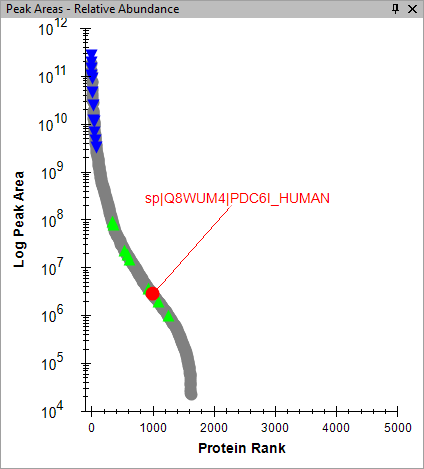
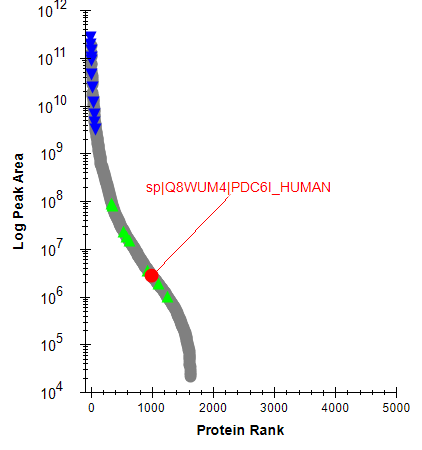
Improved tutorial text, added graph-only screenshot methods
Fixed typos, grammar, and style guide violations in tutorial HTML.
Added PauseForRelativeAbundanceGraphScreenShot() and
PauseForVolcanoPlotGraphScreenShot() helper methods.
Updated screenshots to use cleaner graph-only captures.

diff --git a/pwiz_tools/Skyline/Documentation/Tutorials/PeakImputationDia/en/index.html b/pwiz_tools/Skyline/Documentation/Tutorials/PeakImputationDia/en/index.html
@@ -34,9 +34,9 @@
         In the center, six chromatogram graphs are displayed.
         In the upper right corner is the Peak Area Relative Abundance graph and in the lower right corner is the Retention Times Replicate Comparison graph.</p>
     <ul>
-        <li>Right-click on the <b>Peak Area - Relative Abundance</b> graph, click <b>Targets</b> and then click <b>Proteins</b></li>
-        <li>Right-click on the <b>Peak Area - Relative Abundance</b> graph, click <b>Replicates</b> and then click <b>Single</b></li>
-        <li>On the <b>View</b> menu choose <b>Transitions</b> and click <b>Products</b></li>
+        <li>Right-click on the <b>Peak Area - Relative Abundance</b> graph, choose <b>Targets</b>, and click <b>Proteins</b>.</li>
+        <li>Right-click on the <b>Peak Area - Relative Abundance</b> graph, choose <b>Replicates</b>, and click <b>Single</b>.</li>
+        <li>On the <b>View</b> menu, choose <b>Transitions</b>, and click <b>Products</b>.</li>
     </ul>
     <p><img src="s-01.png" alt="Skyline main window"/></p>
     <h1>Peak Areas Relative Abundance graph</h1>
@@ -46,11 +46,11 @@
         and you can see that the highlighted plasma proteins are higher abundance than the EV proteins.
     </p>
     <ul>
-        <li>In the <b>Targets</b> view <b>Replicates</b> dropdown list, select the first item which is the “EV13_SAXN_12mz_10” replicate.</li>
+        <li>In the <b>Replicates</b> dropdown list, select the first item which is the "EV13_SAXN_12mz_10" replicate.</li>
     </ul>
     <p><img src="s-02.png" alt="Peak abundance - EV enriched"/></p>
-    <p>The replicates whose names begin with "EV" measured samples which used the MagNet protocol to enrich for EV proteins. In these samples, the abundance of the EV proteins is increased in these samples.</p>
-    <ul><li>In the <b>Targets</b> view <b>Replicates</b> dropdown list, select the fourth item which is the “Total04_HydN_12mz_42” replicate.</li></ul>
+    <p>The replicates whose names begin with "EV" measured samples which used the MagNet protocol to enrich for EV proteins. The abundance of the EV proteins is increased in these samples.</p>
+    <ul><li>In the <b>Replicates</b> dropdown list, select the fourth item which is the "Total04_HydN_12mz_42" replicate.</li></ul>
     <p><img src="s-03.png" alt="Peak abundance - Total plasma"/></p>
     <p>The abundances of the proteins in this total plasma sample are different from the EV enriched sample.
         Whereas the EV enriched sample had measurements for more than 4000 proteins, the total plasma sample has values for fewer than 2000 proteins.
@@ -67,27 +67,27 @@
         included a report template which has more group comparison columns.
     </p>
     <ul>
-        <li>In the <b>Reports</b> dropdown at the top of the EV-Enrich:Grid window choose <b>log2fold change</b>.</li>
+        <li>In the <b>Reports</b> dropdown at the top of the <b>EV-Enrich:Grid</b> window, choose <b>log2fold change</b>.</li>
     </ul>
     <p><img src="s-05.png" alt="Group comparison with additional columns"/></p>
     <p>A more graphical way to see the group comparison results is in the volcano plot. To display the volcano plot, do the following:</p>
     <ul>
-        <li>Click the <b>Volcano Plot</b> button at the top left of the <b>EV-Enrich:Grid</b> window</li>
-        <li>The volcano plot appears in the right half of the space where the EV-Enrich grid was. You can make the window wider so that you can see all of the columns of the group comparison grid as well as the volcano plot</li>
+        <li>Click the <b>Volcano Plot</b> button at the top left of the <b>EV-Enrich:Grid</b> window.</li>
     </ul>
+    <p>The volcano plot appears in the right half of the space where the EV-Enrich grid was. You can make the window wider so that you can see all of the columns of the group comparison grid as well as the volcano plot.</p>
     <p><img src="s-06.png" alt="Group comparison with volcano plot"/></p>
     <p>
-        The missing proteins peaks are in replicates where the DIA-NN peptide search engine was unable to confidentally identify a peak.
+        The missing proteins peaks are in replicates where the DIA-NN peptide search engine was unable to confidently identify a peak.
         In this case, a few of the most abundant plasma proteins, represented by blue inverted triangles, had a complete set of peptides detected across a
         sufficient number of replicates for Skyline to calculate proteins. None of the EV proteins, which would have been represented by green triangles, appear on the volcano plot.
-        In general, the replicates with lower abundance will tend to be the ones where the peak was not confidentally identified, but certainly not in all cases.
+        In general, the replicates with lower abundance will tend to be the ones where the peak was not confidently identified, but certainly not in all cases.
         You can modify the group comparison to tell Skyline to treat the replicates with missing peaks as if the peak had zero area.
     </p>
     <h1>"Use zero for missing peaks"</h1>
     <ul>
         <li>Click the <b>Settings</b> button at the top of the <b>EV-Enrich:Grid</b> window.</li>
-        <li>Click the <b>Advanced</b> button in the <b>Edit Group Comparison: EV-Enrich</b> window</li>
-        <li>Check the <b>Use zero for missing peaks</b> checkbox</li>
+        <li>Click the <b>Advanced</b> button in the <b>Edit Group Comparison: EV-Enrich</b> window.</li>
+        <li>Check the <b>Use zero for missing peaks</b> checkbox.</li>
     </ul>
     <p><img src="s-07.png" alt="Edit group comparison dialog"/></p>
     <p>After you make that change to the group comparison definition, the grid will have one row for each protein in the document and the volcano plot will have more points.</p>
@@ -117,9 +117,9 @@
     <h1>When the boundary imputation does a bad job</h1>
     <p>There are some peptides in this document where the peak imputation feature is not going to do as good a job as this one. In the Targets tree, there is another peptide "KADLVNR" which is sixteen peptides above the currently selected one.</p>
     <ul>
-        <li>Click on the peptide <b>KADLVNR</b> in the Targets tree</li>
-        <li>In the <b>Targets</b> view <b>Replicates</b> dropdown list, select the fifth item which is the “Total05_HydN_12mz_38” replicate.</li>
-        <li>On the <b>View</b> menu choose <b>Auto Zoom</b> and then click <b>Best Peak</b></li>
+        <li>Click on the peptide <b>KADLVNR</b> in the Targets tree.</li>
+        <li>In the <b>Replicates</b> dropdown list, select the fifth item which is the "Total05_HydN_12mz_38" replicate.</li>
+        <li>On the <b>View</b> menu, choose <b>Auto Zoom</b>, and click <b>Best Peak</b>.</li>
     </ul>
     <p><img src="s-12.png" alt="KADLVNR with misaligned imputation"/></p>
     <p>In the middle chromatogram in the second row, the green rectangle indicating where Skyline would have imputed boundaries
@@ -130,8 +130,8 @@
         Run</b>. </li></ul>
     <p>The retention time regression window appears in the same place as the retention time replicate comparison window, on a different tab.</p>
     <ul>
-        <li>Right-click on the "Retention Times - Score to Run Regression" graph, choose <b>Calculator</b> and click <b>Library ExtracellularVesicalMagNet</b></li>
-        <li>Right-click on the "Retention Times - Score to Run Regression" graph, choose <b>Regression Method</b> and click <b>Loess</b></li>
+        <li>Right-click on the "Retention Times - Score to Run Regression" graph, choose <b>Calculator</b>, and click <b>Library ExtracellularVesicalMagNet</b>.</li>
+        <li>Right-click on the "Retention Times - Score to Run Regression" graph, choose <b>Regression Method</b>, and click <b>Loess</b>.</li>
     </ul>
     <p><img src="s-13.png" alt="Score to run regression"/></p>
     <p>This graph shows all the peptides which can be found in the Skyline document or in the spectral library.
@@ -139,23 +139,23 @@
     The Y-coordinate is the retention time of the peptide in the currently selected replicate.
     The purple points plotted in a horizontal line across the bottom the chart area are the peptides which do not have a peak in the current replicate.
         The points are plotted there so that you can have something to click on to select peptides with missing peaks.
-        It is hard to see exactly where the red dot relative to the regression line which goes through all of the points.
+        It is hard to see exactly where the red dot is relative to the regression line which goes through all of the points.
         There is another view of this graph which makes it easier to see.
     </p>
     <ul><li>Right-click the graph, choose <b>Plot</b>, and click <b>Residuals</b>.</li></ul>
     <p><img src="s-14.png" alt="Regression residuals plot"/></p>
-    <ul><li>In the <b>Targets</b> view <b>Replicates</b> dropdown list, select the first item which is the “EV13_SAXN_12mz_10” replicate.</li></ul>
+    <ul><li>In the <b>Replicates</b> dropdown list, select the first item which is the "EV13_SAXN_12mz_10" replicate.</li></ul>
     <p><img src="s-15.png" alt="Residuals for EV13 replicate"/></p>
-    <p>To go return to what was displayed before:</p>
+    <p>To return to what was displayed before:</p>
     <ul>
-        <li>Click on the peptide <b>FYNELTEILVR</b> in the Targets tree</li>
-        <li>On the <b>View</b> menu, choose <b>Retention Times</b> and click <b>Replicate Comparison</b> (F8).</li>
+        <li>Click on the peptide <b>FYNELTEILVR</b> in the Targets tree.</li>
+        <li>On the <b>View</b> menu, choose <b>Retention Times</b>, and click <b>Replicate Comparison</b> (F8).</li>
     </ul>
     <p><img src="s-16.png" alt="FYNELTEILVR peptide view"/></p>
     <h1>Imputing boundaries for missing peaks</h1>
-    <p>Now we are going to tell Skyline to set the peak boundaries for all missing peaks based on the peak boundaries of the best-scoring replicate.</p>
+    <p>The following steps tell Skyline to set the peak boundaries for all missing peaks based on the peak boundaries of the best-scoring replicate.</p>
     <ul>
-        <li>On the <b>Settings</b> menu click <b>Peptide Settings</b></li>
+        <li>On the <b>Settings</b> menu, click <b>Peptide Settings</b>.</li>
         <li>Click the <b>Prediction</b> tab.</li>
         <li>Check the <b>Missing peaks</b> checkbox inside of the "Impute boundaries for" box.</li>
     </ul>

diff --git a/pwiz_tools/Skyline/TestTutorial/PeakImputationDiaTutorial.cs b/pwiz_tools/Skyline/TestTutorial/PeakImputationDiaTutorial.cs
@@ -22,7 +22,9 @@ using System.Linq;
 using System.Windows.Forms;
 using DigitalRune.Windows.Docking;
 using Microsoft.VisualStudio.TestTools.UnitTesting;
+using pwiz.Common.SystemUtil.PInvoke;
 using pwiz.Skyline;
+using pwiz.Skyline.Controls;
 using pwiz.Skyline.Controls.Graphs;
 using pwiz.Skyline.Controls.GroupComparison;
 using pwiz.Skyline.Controls.SeqNode;
@@ -53,6 +55,8 @@ namespace pwiz.SkylineTestTutorial
 
         protected override void DoTest()
         {
+            const string pepOfInterest1 = "FYNELTEILVR";
+            const string pepOfInterest2 = "KADLVNR";
             RunUI(() =>
             {
                 if (!Program.SkylineOffscreen)
@@ -66,7 +70,7 @@ namespace pwiz.SkylineTestTutorial
                 SkylineWindow.OpenFile(TestFilesDirs[0].GetTestPath("ExtracellularVesicalMagNet.sky"));
                 var selectedNode = SkylineWindow.SelectedNode;
                 Assert.IsInstanceOfType(selectedNode, typeof(PeptideTreeNode));
-                Assert.AreEqual("FYNELTEILVR", GetSelectedPeptide());
+                Assert.AreEqual(pepOfInterest1, GetSelectedPeptide());
             });
             WaitForDocumentLoaded();
             var relativeAbundanceForm = FindGraphSummaryByGraphType<SummaryRelativeAbundanceGraphPane>();
@@ -81,10 +85,10 @@ namespace pwiz.SkylineTestTutorial
             PauseForScreenShot(SkylineWindow, "Skyline main window");
             RunUI(()=>SkylineWindow.SelectedResultsIndex = 0);
             WaitForComplete(relativeAbundanceForm);
-            PauseForScreenShot(relativeAbundanceForm, "Peak abundance - EV enriched");
+            PauseForRelativeAbundanceGraphScreenShot("Peak abundance - EV enriched");
             RunUI(()=>SkylineWindow.SelectedResultsIndex = 3);
             WaitForComplete(relativeAbundanceForm);
-            PauseForScreenShot(relativeAbundanceForm, "Peak abundance - Total plasma");
+            PauseForRelativeAbundanceGraphScreenShot("Peak abundance - Total plasma");
             RunUI(()=>SkylineWindow.ShowGroupComparisonWindow("EV-Enrich"));
             var foldChangeGrid = FindOpenForm<FoldChangeGrid>();
             WaitForConditionUI(() => foldChangeGrid.IsComplete);
@@ -121,31 +125,24 @@ namespace pwiz.SkylineTestTutorial
             });
             foldChangeVolcanoPlot = FindOpenForm<FoldChangeVolcanoPlot>();
             WaitForConditionUI(() => foldChangeVolcanoPlot.IsComplete);
-            PauseForScreenShot(floatingWindow, "Volcano plot zoomed out");
-            RunUI(()=>SkylineWindow.SelectedResultsIndex = 3);
+            PauseForVolcanoPlotGraphScreenShot("Volcano plot zoomed out");
+            RunUI(() => SkylineWindow.SelectedResultsIndex = 3);
             var windowPositions = HideFloatingWindows();
-            Assert.AreEqual("FYNELTEILVR", CallUI(GetSelectedPeptide));
+            Assert.AreEqual(pepOfInterest1, CallUI(GetSelectedPeptide));
             var rtReplicateGraphSummary = SkylineWindow.GraphRetentionTime;
             Assert.IsNotNull(rtReplicateGraphSummary);
-            PauseForScreenShot(rtReplicateGraphSummary, "Retention times replicate comparison");
-            RunUI(()=>SkylineWindow.ShowExemplaryPeak(true));
+            PauseForRetentionTimeGraphScreenShot("Retention times replicate comparison");
+            RunUI(() => SkylineWindow.ShowExemplaryPeak(true));
             WaitForExemplaryPeaks();
             PauseForScreenShot(SkylineWindow, "Chromatograms with exemplary peak");
-            RunUI(() =>
-            {
-                var proteinNode = SkylineWindow.SequenceTree.GetNodeOfType<PeptideGroupTreeNode>();
-                Assert.IsNotNull(proteinNode);
-                var peptideNode = proteinNode.Nodes.OfType<PeptideTreeNode>()
-                    .First(node => node.DocNode.Peptide.Sequence == "KADLVNR");
-                SkylineWindow.SelectedPath = peptideNode.Path;
-            });
+            SelectPeptide(pepOfInterest2);
             RunUI(()=>
             {
                 SkylineWindow.SelectedResultsIndex = 4;
                 SkylineWindow.AutoZoomBestPeak();
             });
             WaitForExemplaryPeaks();
-            PauseForScreenShot(SkylineWindow, "KADLVNR with misaligned imputation");
+            PauseForScreenShot(SkylineWindow, $"{pepOfInterest2} with misaligned imputation");
             GraphSummary scoreToRunGraphSummary = null;
             RunUI(() =>
             {
@@ -156,26 +153,19 @@ namespace pwiz.SkylineTestTutorial
                 SkylineWindow.ShowRegressionMethod(RegressionMethodRT.loess);
             });
             WaitForComplete(scoreToRunGraphSummary);
-            PauseForScreenShot(scoreToRunGraphSummary, "Score to run regression");
-            RunUI(()=> SkylineWindow.ShowPlotType(PlotTypeRT.residuals));
+            PauseForRetentionTimeGraphScreenShot("Score to run regression");
+            RunUI(() => SkylineWindow.ShowPlotType(PlotTypeRT.residuals));
             WaitForComplete(scoreToRunGraphSummary);
-            PauseForScreenShot(scoreToRunGraphSummary, "Regression residuals plot");
-            RunUI(()=>SkylineWindow.SelectedResultsIndex = 0);
+            PauseForRetentionTimeGraphScreenShot("Regression residuals plot");
+            RunUI(() => SkylineWindow.SelectedResultsIndex = 0);
             WaitForComplete(scoreToRunGraphSummary);
-            PauseForScreenShot(scoreToRunGraphSummary, "Residuals for EV13 replicate");
-            RunUI(() =>
-            {
-                var proteinNode = SkylineWindow.SequenceTree.GetNodeOfType<PeptideGroupTreeNode>();
-                Assert.IsNotNull(proteinNode);
-                var peptideNode = proteinNode.Nodes.OfType<PeptideTreeNode>()
-                    .First(node => node.DocNode.Peptide.Sequence == "FYNELTEILVR");
-                SkylineWindow.SelectedPath = peptideNode.Path;
-            });
-            RunUI(()=>rtReplicateGraphSummary.Activate());
-            PauseForScreenShot(SkylineWindow, "FYNELTEILVR peptide view");
+            PauseForRetentionTimeGraphScreenShot("Residuals for EV13 replicate");
+            SelectPeptide(pepOfInterest1);
+            RunUI(() => rtReplicateGraphSummary.Activate());
+            PauseForScreenShot(SkylineWindow, $"{pepOfInterest1} peptide view");
             RunLongDlg<PeptideSettingsUI>(SkylineWindow.ShowPeptideSettingsUI, peptideSettingsUi =>
             {
-                RunUI(()=>
+                RunUI(() =>
                 {
                     peptideSettingsUi.SelectedTab = PeptideSettingsUI.TABS.Prediction;
                     peptideSettingsUi.ImputeMissingPeaks = true;
@@ -186,7 +176,47 @@ namespace pwiz.SkylineTestTutorial
             PauseForScreenShot(SkylineWindow, "Chromatograms with imputed boundaries");
             RestoreFloatingWindows(windowPositions);
             WaitForConditionUI(() => foldChangeVolcanoPlot.IsComplete);
-            PauseForScreenShot(floatingWindow, "Volcano plot after imputation");
+            PauseForVolcanoPlotGraphScreenShot("Volcano plot after imputation");
+
+            if (IsCoverShotMode)
+            {
+                // Remove some of the peptide siblings of the selected node to
+                // allow it to be closer to the protein highlighted in the volcano plot
+                // and relative abundance plot views.
+                TreeNode nodeProtTree = null;
+                RunUI(() =>
+                {
+                    nodeProtTree = SkylineWindow.SequenceTree.SelectedNode.Parent;
+                    DeleteNodes(nodeProtTree, 0, 6);
+                    DeleteNodes(nodeProtTree, 4, 14);
+                    DeleteNodes(nodeProtTree, 5, 5);
+                    SkylineWindow.ShowChromatogramLegends(false);
+                });
+                // Restore a layout with the volcano plot alone in a floating window
+                RestoreCoverViewOnScreen();
+                // Reselect the peptide of interest - though the layout should have selected it
+                SelectPeptide(pepOfInterest1);
+                var volcanoPlot = FindOpenForm<FoldChangeVolcanoPlot>();
+                Assert.IsNotNull(volcanoPlot);
+                RunUI(() =>
+                {
+                    // Place it in the lower left corner of the Skyline window
+                    // showing a line of pluses for the hidden proteins, and just
+                    // above the Targets and Files tabs.
+                    var volcanoFrame = volcanoPlot.Parent.Parent;
+                    volcanoFrame.Location = SkylineWindow.SequenceTree.PointToScreen(
+                        new Point(10, SkylineWindow.SequenceTree.Height - 4 - volcanoFrame.Height));
+                    SkylineWindow.SequenceTree.TopNode = SkylineWindow.SequenceTree.SelectedNode.Parent.PrevNode;
+                    SkylineWindow.SequenceTree.SetScrollPos(Orientation.Horizontal, 0);
+                });
+                TakeCoverShot();
+            }
+        }
+
+        private void DeleteNodes(TreeNode nodeProtTree, int start, int count)
+        {
+            SelectNodes(nodeProtTree, start, count);
+            SkylineWindow.EditDelete();
         }
 
         private void WaitForComplete(GraphSummary graphSummary)
@@ -202,6 +232,27 @@ namespace pwiz.SkylineTestTutorial
 
                 return true;
             });
+        }
+
+        private static void SelectPeptide(string sequence)
+        {
+            RunUI(() =>
+            {
+                var proteinNode = SkylineWindow.SequenceTree.GetNodeOfType<PeptideGroupTreeNode>();
+                Assert.IsNotNull(proteinNode);
+                var peptideNode = proteinNode.Nodes.OfType<PeptideTreeNode>()
+                    .First(node => node.DocNode.Peptide.Sequence == sequence);
+                SkylineWindow.SelectedPath = peptideNode.Path;
+            });
+        }
+
+        private void SelectNodes(TreeNode nodeProtTree, int start, int count)
+        {
+            SkylineWindow.SequenceTree.SelectedNode = nodeProtTree.Nodes[start];
+            for (int i = start + 1; i < start + count; i++)
+            {
+                SkylineWindow.SequenceTree.SelectedNodes.Add((TreeNodeMS)nodeProtTree.Nodes[i]);
+            }
         }
 
         private string GetSelectedPeptide()

diff --git a/pwiz_tools/Skyline/TestUtil/TestFunctional.cs b/pwiz_tools/Skyline/TestUtil/TestFunctional.cs
@@ -47,6 +47,7 @@ using pwiz.Skyline.Alerts;
 using pwiz.Skyline.Controls;
 using pwiz.Skyline.Controls.Databinding;
 using pwiz.Skyline.Controls.Graphs;
+using pwiz.Skyline.Controls.GroupComparison;
 using pwiz.Skyline.Controls.SeqNode;
 using pwiz.Skyline.Controls.Startup;
 using pwiz.Skyline.EditUI;
@@ -1820,6 +1821,20 @@ namespace pwiz.SkylineTestUtil
             if (replicateName == null)
                 RunUI(() => replicateName = SkylineWindow.SelectedGraphChromName);
             PauseForGraphScreenShot(description, SkylineWindow.GetGraphChrom(replicateName), timeout, processShot);
+        }
+
+        public void PauseForRelativeAbundanceGraphScreenShot(string description, int? timeout = null, Func<Bitmap, Bitmap> processShot = null)
+        {
+            var graphSummary = FindGraphSummaryByGraphType<SummaryRelativeAbundanceGraphPane>();
+            Assert.IsNotNull(graphSummary, "Relative abundance graph not found");
+            PauseForGraphScreenShot(description, graphSummary, timeout, processShot);
+        }
+
+        public void PauseForVolcanoPlotGraphScreenShot(string description, int? timeout = null, Func<Bitmap, Bitmap> processShot = null)
+        {
+            var volcanoPlot = FindOpenForm<FoldChangeVolcanoPlot>();
+            Assert.IsNotNull(volcanoPlot, "Volcano plot not found");
+            PauseForGraphScreenShot(description, volcanoPlot, timeout, processShot);
         }
 
         protected ZedGraphControl FindZedGraph(Control graphContainer)
